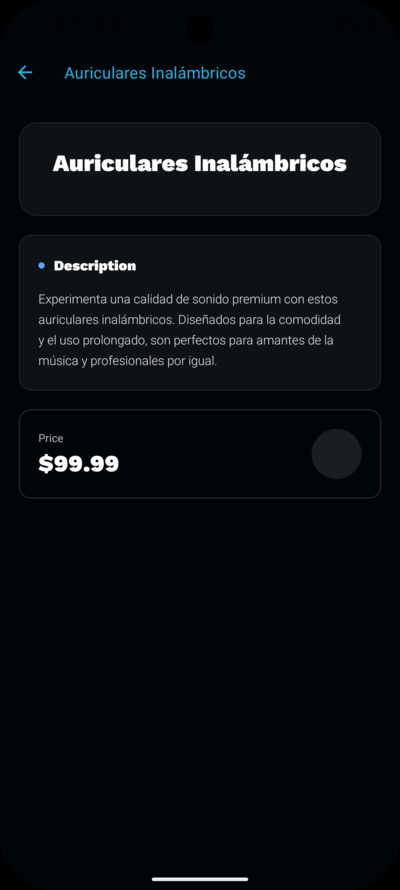
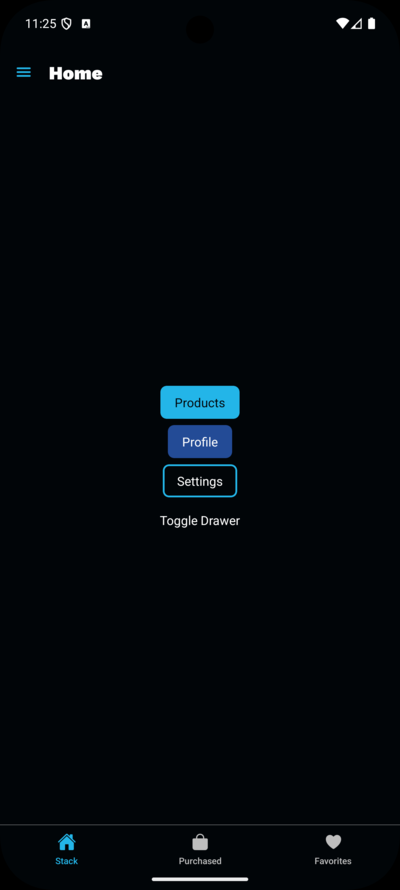
docs: update comprehensive README (RNE o5)

diff --git a/react-native-expo/o5-navigation-app/README.md b/react-native-expo/o5-navigation-app/README.md
@@ -1,16 +1,18 @@
 # [🧭 Navigation App](https://github.com/elliotgaramendi/devtalles/tree/develop/react-native-expo/o5-navigation-app)
 
-An elegant and interactive **navigation application** built with **React Native**, **Expo**, and **Expo Router** ⚡.
-This app demonstrates professional navigation patterns including **stack navigation**, **dynamic routing**, and **parameterized screens**.
-Features include custom typography, gradient backgrounds, and reusable UI components — perfect for learning advanced navigation in modern mobile development! 🚀✨
+An elegant and interactive **navigation application** built with **React Native**, **Expo**, and **Expo Router** ⚡.  
+This app demonstrates professional navigation patterns including **drawer navigation**, **tab navigation**, **stack navigation**, and **dynamic routing**.  
+Features include custom typography, dark theme, and reusable UI components — perfect for learning advanced navigation in modern mobile development! 🚀✨
 
 ## ✨ Features
 
-- 🧭 **Stack Navigation**: Navigate seamlessly across screens (`Home`, `Products`, `Profile`, `Settings`)
-- 📦 **Dynamic Routes**: Product details with **ID-based navigation**
+- 🧭 **Drawer Navigation**: Global app menu with multiple sections
+- 📑 **Tab Navigation**: Organized bottom tabs for quick access
+- 📦 **Stack Navigation**: Navigate seamlessly across screens (`Home`, `Products`, `Profile`, `Settings`)
+- 🔀 **Dynamic Routes**: Product details with **ID-based navigation**
 - 📱 **Cross-Platform**: Fully compatible with iOS and Android
-- 🎨 **Modern UI**: Gradient backgrounds, glassmorphism, and custom typography
-- 👆 **Interactive Buttons**: Navigate with tap gestures using `AppButton`
+- 🎨 **Modern UI**: Dark theme, glassmorphism, and custom typography
+- 👆 **Interactive Buttons**: Navigate with gestures and header actions
 - ⚡ **Reusable Components**: Shared UI with consistent design
 - 🎯 **Responsive Layouts**: Tailwind-like utility classes with `nativewind`
 
@@ -48,22 +50,36 @@ npx expo start
 * 📘 **TypeScript**: Strongly typed JavaScript
 * 🎨 **NativeWind (Tailwind CSS)**: Utility-first styling in React Native
 * 🔧 **Custom Fonts**: WorkSans family for modern typography
+* 🎭 **Vector Icons**: Ionicons for tab and drawer icons
 
 ## 🎨 Design Features
 
 * 🌑 **Dark Theme**: Elegant background with gradients
 * 🟣 **Glassmorphism Cards**: Semi-transparent panels with blur effects
-* ✨ **Dynamic Headers**: Contextual titles for each screen
+* ✨ **Dynamic Headers**: Contextual titles and drawer/tabs integration
 * 🔤 **Custom Typography**: WorkSans font family integration
 * 📐 **Flexible Layouts**: Utility classes for responsive design
 
 ## 🗺 Navigation Structure
 
-* **Home** → Main menu with navigation buttons
-* **Products** → Product list with FlatList
-* **Product Details** → Dynamic route: `/products/[id]`
-* **Profile** → User profile screen
-* **Settings** → Settings management
+```
+Drawer
+ ├── Tabs
+ │    ├── (Stack)
+ │    │     ├── Home
+ │    │     ├── Products
+ │    │     ├── Profile
+ │    │     └── Settings
+ │    ├── Purchased
+ │    └── Favorites
+ └── User
+ └── Schedule
+```
+
+* **Drawer** → Global app menu (User, Schedule, Tabs)
+* **Tabs** → Bottom navigation (Stack, Purchased, Favorites)
+* **Stack** → Nested screens (`Home`, `Products`, `Profile`, `Settings`)
+* **Dynamic Routes** → Product Details: `/products/[id]`
 
 ## 🤝 Contributing
 
